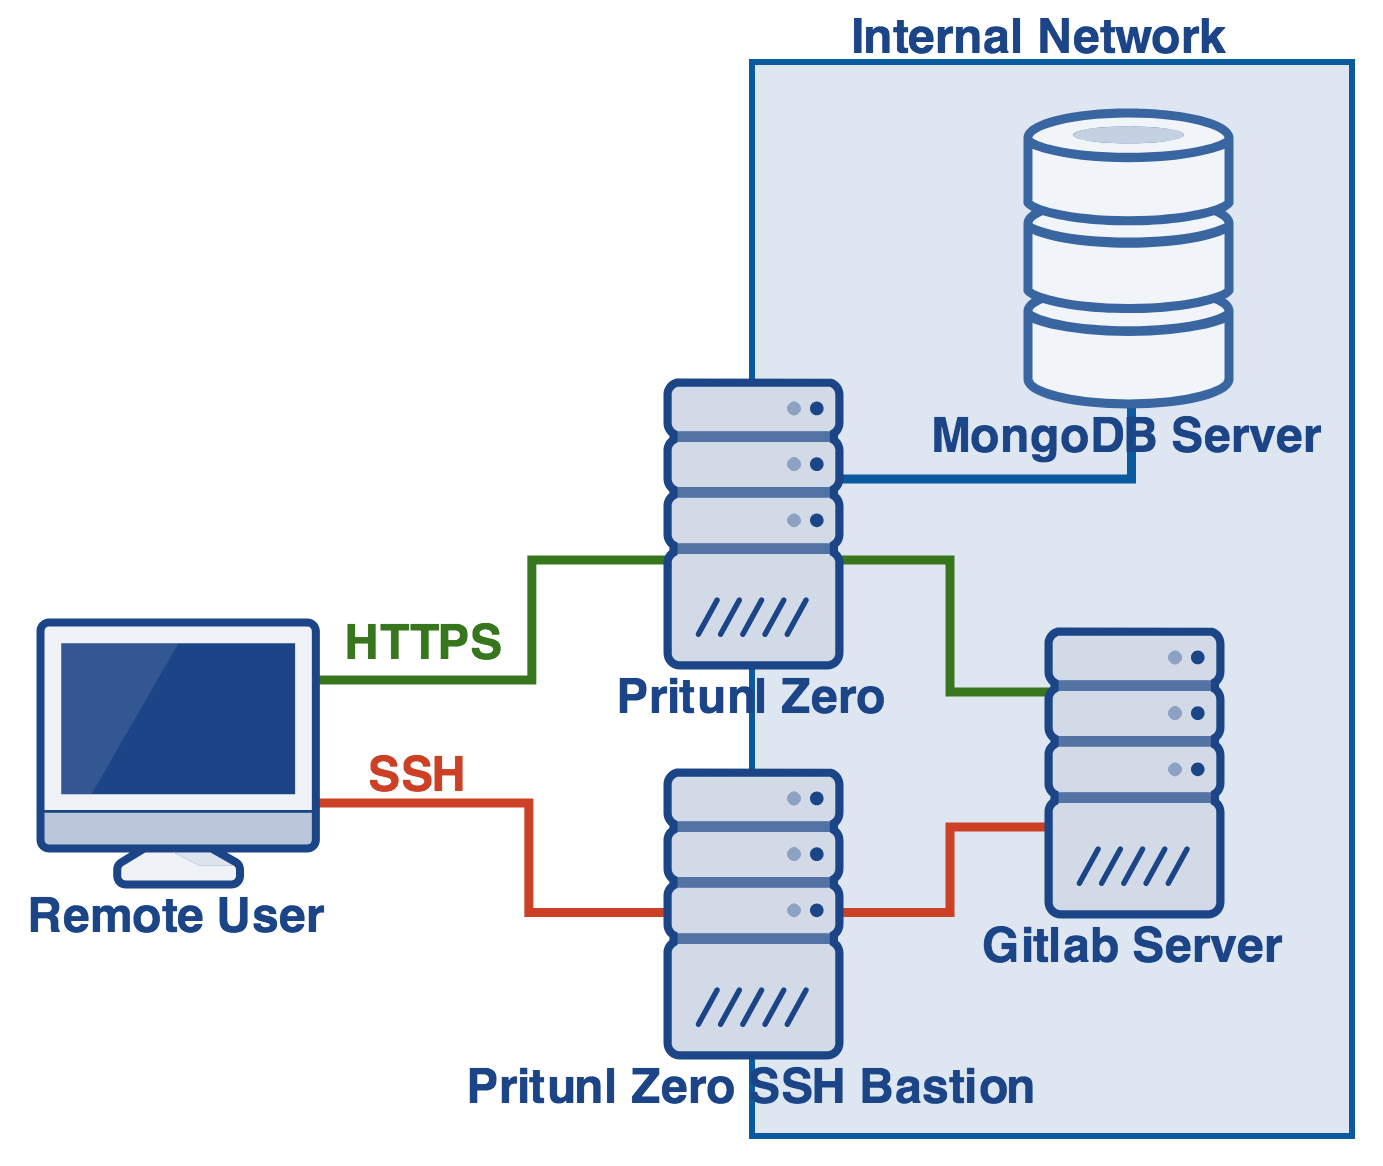
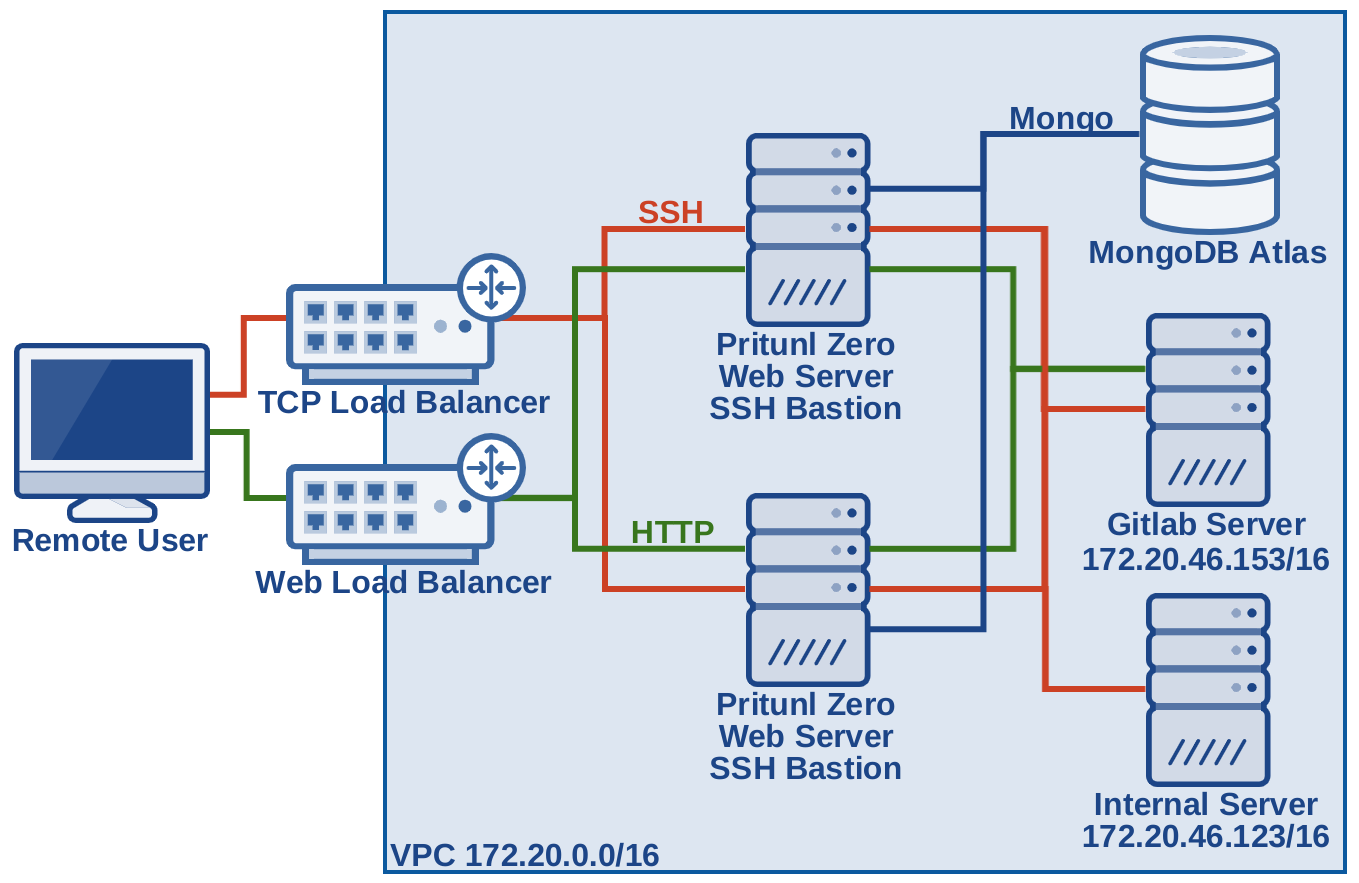
Update tutorials

diff --git a/_includes/features.html b/_includes/features.html
@@ -236,10 +236,10 @@ ssh git@bastion.gitlab.pritunl.com
         <div class="tutorial col-xl-7 col-lg-8 col-md-9 col-sm-10 col-11">
           <h3>Gitlab Tutorial</h3>
           <p>
-            Protect the Gitlab web interface using zero trust authentication with Pritunl Zero. Add two-factor authentication and strict host checking to Git SSH access using SSH certificates and a SSH bastion host.
+            Protect the Gitlab web and Git+SSH interface using zero trust authentication with Pritunl Zero. Production ready tutorial with fault tolerant Pritunl Zero servers using load balancers.
           </p>
-          <a href="https://docs.pritunl.com/docs/gitlab" target="_blank"><img src="img/gitlab_diagram.png" alt="Gitlab Tutorial"/></a><br/>
-          <a class="link" href="https://docs.pritunl.com/docs/gitlab">View Gitlab Tutorial</a>
+          <a href="https://docs.pritunl.com/docs/pritunl-zero-gitlab" target="_blank"><img src="img/gitlab_diagram.png" alt="Gitlab Tutorial"/></a><br/>
+          <a class="link" href="https://docs.pritunl.com/docs/pritunl-zero-gitlab">View Gitlab Tutorial</a>
         </div>
       </div>
     </div>
